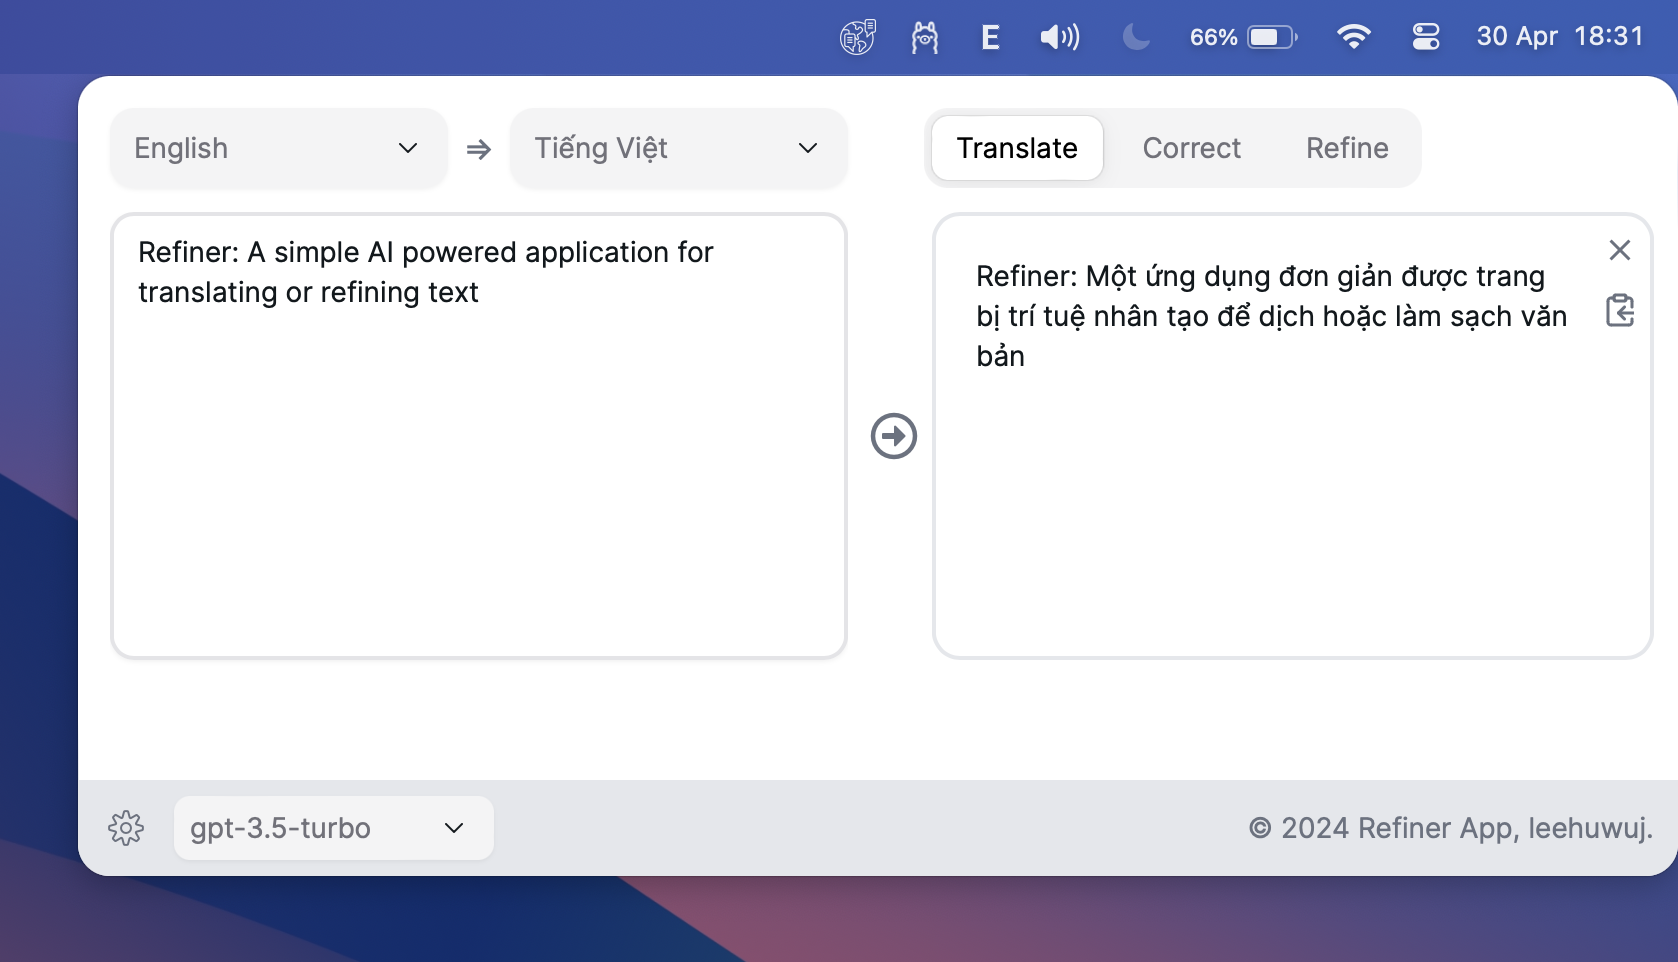
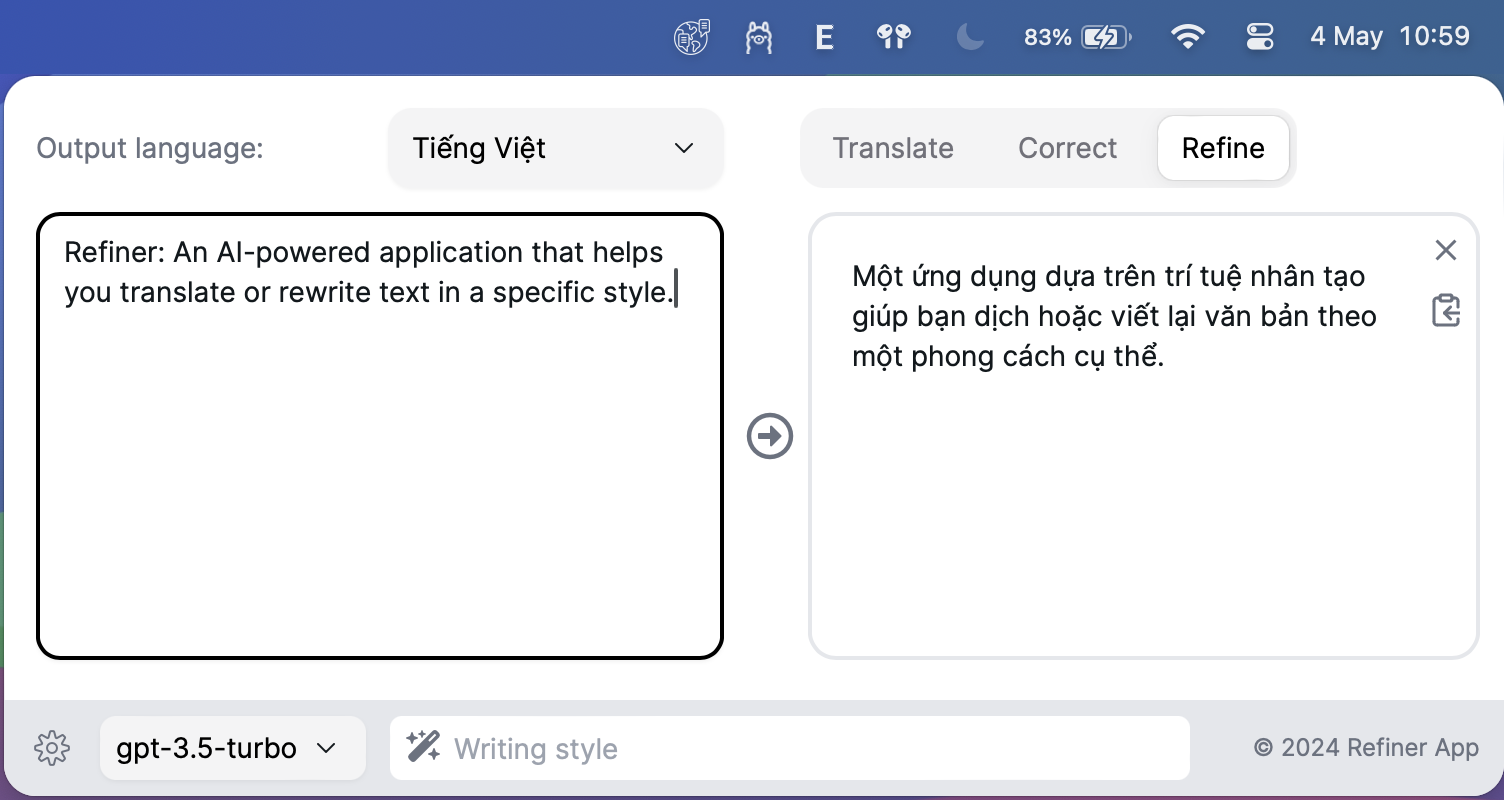
feat: Remove source language (#7)
* remove source language

* change home image screenshot

diff --git a/src/app/sections/bottomBar.tsx b/src/app/sections/bottomBar.tsx
@@ -4,6 +4,7 @@ import { Settings } from "./settings";
 import React from "react";
 import { useContext } from "react";
 import { SettingContext } from "../providers/settings";
+import { FaWandMagicSparkles } from "react-icons/fa6";
 
 const BottomBar = () => {
   const [openSettings, setOpenSettings] = React.useState(false);
@@ -11,35 +12,46 @@ const BottomBar = () => {
 
   return (
     <div className="fixed bottom-0 left-0 flex h-12 w-full items-center justify-between rounded-b-extra bg-gray-200 pl-3 pr-3">
-      <div className="flex items-center space-x-3">
+      <div className="flex space-x-3 w-full items-center align-middle justify-between">
         <button onClick={() => setOpenSettings(true)} className="text-gray-500">
           <CiSettings size={24} className="font-bold" />
         </button>
         <Select
           size="sm"
-          className="w-40"
-          placeholder={settingContext.model || "Select a model"}
+          className="w-4/12 text-xs"
+          placeholder={settingContext.model || "Model"}
           value={settingContext.model || ""}
           onChange={(event) => settingContext.setModel(event.target.value)}
         >
           {settingContext.provider?.models?.map((model) => (
-            <SelectItem value={model} key={model} id={model}>
+            <SelectItem value={model} key={model} id={model} className="text-xs">
               {model}
             </SelectItem>
           )) || []}
         </Select>
+        <div className="relative w-full">
+          <input
+            className="rounded-md p-1.5 pl-8 text-sm w-full"
+            placeholder="Writing style"
+          >
+          </input>
+          <FaWandMagicSparkles size={18} className="absolute top-1.5 left-2 text-gray-500" />
+        </div>
+        <p className="w-4/12 text-gray-500 text-xs text-right">
+          © 2024 Refiner App
+        </p>
       </div>
-      <p className="flex items-center text-sm text-gray-500">
-        © 2024 Refiner App, leehuwuj.
-      </p>
-      {openSettings && (
-        <Settings
-          isOpen={openSettings}
-          onOpen={() => setOpenSettings(true)}
-          onOpenChange={() => setOpenSettings(false)}
-        />
-      )}
-    </div>
+      {
+        openSettings && (
+          <Settings
+            isOpen={openSettings}
+            onOpen={() => setOpenSettings(true)}
+            onOpenChange={() => setOpenSettings(false)}
+          />
+        )
+      }
+    </div >
+
   );
 };
 

diff --git a/src/app/page.tsx b/src/app/page.tsx
@@ -1,7 +1,7 @@
 "use client";
 
 import { invoke } from "@tauri-apps/api/core";
-import { Select, SelectItem } from "@nextui-org/react";
+import { Input, Select, SelectItem } from "@nextui-org/react";
 import { emit, listen } from "@tauri-apps/api/event";
 import { TextInput } from "./sections/input";
 import { Result } from "./sections/result";
@@ -92,44 +92,23 @@ const LanguageSelections = ({
   selectedLang?: LanguageConfig;
   changeLangConfig: (lang: LanguageConfig) => void;
 }) => {
-  const sourceLangues = [
-    { value: "en", label: "English" },
-    { value: "es", label: "Spanish" },
-    { value: "fr", label: "French" },
-  ];
+  // const sourceLangues = [
+  //   { value: "en", label: "English" },
+  //   { value: "es", label: "Spanish" },
+  //   { value: "fr", label: "French" },
+  // ];
   const targetLangues = [
     { value: "vi", label: "Tiếng Việt" },
     { value: "en", label: "English" },
   ];
 
   return (
-    <div className="mb-3 flex flex-wrap gap-2 md:flex-nowrap">
+    <div className="mb-3 flex flex-row gap-2 align-middle items-center">
+      <p className="w-3/6 text-gray-500 text-sm">
+        Output language:
+      </p>
       <Select
-        value={selectedLang?.sourceLang.label}
-        placeholder={selectedLang?.sourceLang.label}
-      >
-        {sourceLangues.map((lang) => (
-          <SelectItem
-            key={lang.value}
-            value={selectedLang?.sourceLang.label}
-            onClick={() => {
-              const newConfig = selectedLang;
-              if (newConfig) {
-                newConfig.sourceLang = {
-                  code: lang.value,
-                  label: lang.label,
-                };
-                changeLangConfig(newConfig);
-              }
-            }}
-            id={lang.label}
-          >
-            {lang.label}
-          </SelectItem>
-        ))}
-      </Select>
-      <p className="self-center text-center text-gray-500">{" => "}</p>
-      <Select
+        className="w-3/6"
         value={selectedLang?.targetLang.label}
         placeholder={selectedLang?.targetLang.label}
       >

diff --git a/src/app/sections/input.tsx b/src/app/sections/input.tsx
@@ -15,7 +15,7 @@ const TextInput = ({
       id="input-text"
       variant="bordered"
       disableAutosize
-      placeholder="Input your text here and press Cmd + Enter to see the magic happen!"
+      placeholder="The inputted language is automatically detected. Enter your text here and press Cmd + Enter to see the magic happen!"
       value={inputText}
       onChange={(e) => changeText(e.target.value)}
       aria-label="Input text area"

diff --git a/src-tauri/src/commands.rs b/src-tauri/src/commands.rs
@@ -22,15 +22,15 @@ const DEFAULT_CORRECTION_PROMPT: &str = "
     Example:
         Input: I running
         Your answer: <ans>I'm running</ans>
-    Please check grammar correct it in the text block below and answer in {original_lang} language: ";
+    Please check grammar correct it in the text block below and answer in {target_lang} language: ";
 const DEFAULT_REFINE_PROMPT: &str = "
     You're a good editor. 
-    Only answer the translated text without explanation, 
+    Only answer without explanation, 
     put your answer in <ans></ans> block and do not include anything else because only the text inside <ans></ans> block will be extracted.
     Example:
         Input: Hello, how are you?
         Your answer: <ans>What's up!</ans>
-    Please refine the text in text block below with conversational style in {original_lang} language: 
+    Please rewrite the text in text block below with conversational style in {target_lang} language: 
 "
 ;
 
